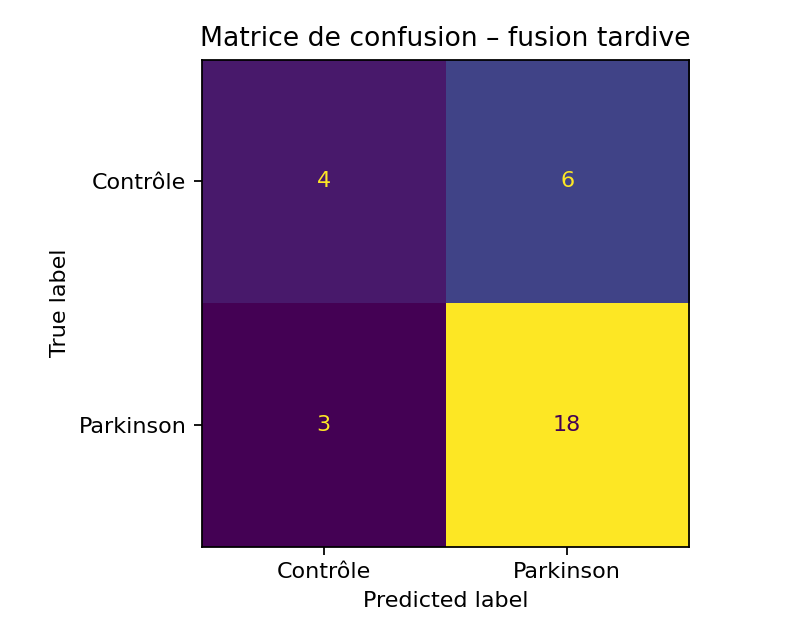
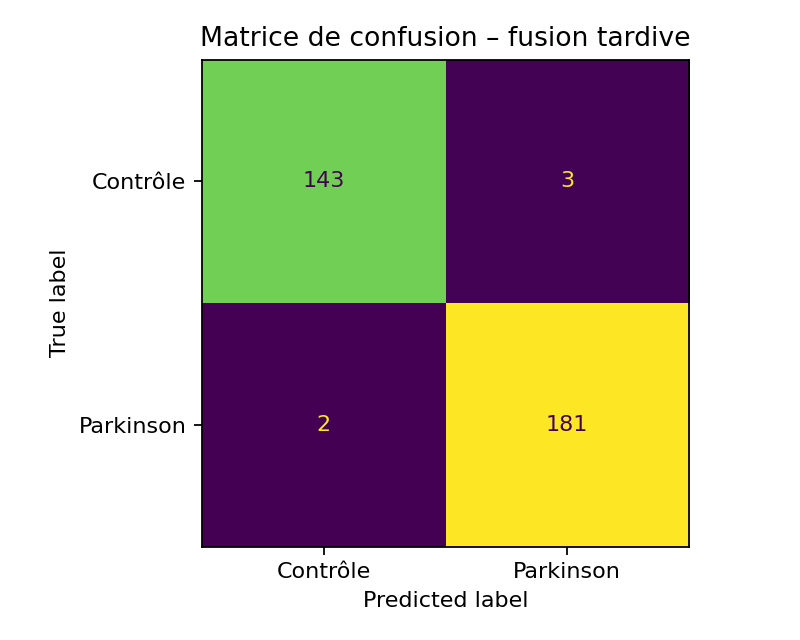
model avec bon résultats

Changed region(s): [[0.25, 0.0938, 0.875, 0.5], [0.6875, 0.625, 0.75, 0.6875]]

diff --git a/model/fusion_model.py b/model/fusion_model.py
@@ -28,6 +28,10 @@ SPIRAL_CSV   = PROJECT_ROOT / "reports" / "figures" / "spiral_uci" / "features_p
 OUT_DIR      = PROJECT_ROOT / "reports" / "figures"
 OUT_DIR.mkdir(parents=True, exist_ok=True)
 
+import sys
+sys.path.append(str(PROJECT_ROOT))
+from voice_loader import load_voice_data
+
 # Features à utiliser
 VOICE_FEATS = [
     "HNR", "RPDE", "DFA", "PPE",
@@ -36,25 +40,13 @@ VOICE_FEATS = [
     "age", "sex", "test_time",
 ]
 
-VOICE_CSV = PROJECT_ROOT / "reports" / "figures" / "voice" / "features_per_subject_voice.csv"
-
 def load_voice() -> tuple[pd.DataFrame, np.ndarray]:
-    if not VOICE_CSV.exists():
-        raise FileNotFoundError(
-            f"Fichier introuvable : {VOICE_CSV}\n"
-            "Lance d'abord : python analysis/eda_voice.py"
-        )
-    df = pd.read_csv(VOICE_CSV)
-    if "label_pd" not in df.columns:
-        raise KeyError("Colonne 'label_pd' absente — relance eda_voice.py avec le patch d'export.")
-    available = [f for f in VOICE_FEATS if f in df.columns]
-    missing = set(VOICE_FEATS) - set(available)
-    if missing:
-        print(f"[avertissement] features vocales absentes : {missing}")
-    X = df[available]
-    y = df["label_pd"].to_numpy()
+    X_train, X_test, y_train, y_test = load_voice_data(use_merged=True, normalize=False)
+    # normalize=False car le pipeline fait déjà StandardScaler
+    X = np.vstack([X_train, X_test])
+    y = np.concatenate([y_train, y_test])
     print(f"Dataset vocal  : {X.shape[0]} sujets, {X.shape[1]} features — PD={y.sum()}, HC={(y==0).sum()}")
-    return X, y
+    return pd.DataFrame(X), y
 
 def load_spiral() -> tuple[pd.DataFrame, np.ndarray]:
     """Charge le CSV produit par eda_spiral_uci.py."""
@@ -224,10 +216,9 @@ def main() -> None:
         (results["prob_fusion"] >= 0.5).astype(int),
         OUT_DIR / "confusion_matrix_fusion.png",
     )
-    plot_roc_curves(results, OUT_DIR / "roc_curves_comparison.png")
     plot_feature_importance(
         results["pipe_voice"],
-        [f for f in VOICE_FEATS if f in X_v.columns],
+        [str(i) for i in range(X_v.shape[1])],  # noms génériques 0..44
         "Importance des features – voix",
         OUT_DIR / "feature_importance_voice_model.png",
     )
@@ -237,6 +228,7 @@ def main() -> None:
         "Importance des features – spirale",
         OUT_DIR / "feature_importance_spiral_model.png",
     )
+    plot_roc_curves(results, OUT_DIR / "roc_curves_comparison.png")
 
     # 4. Export métriques JSON (pour la partie hyperparamètres)
     metrics = {
